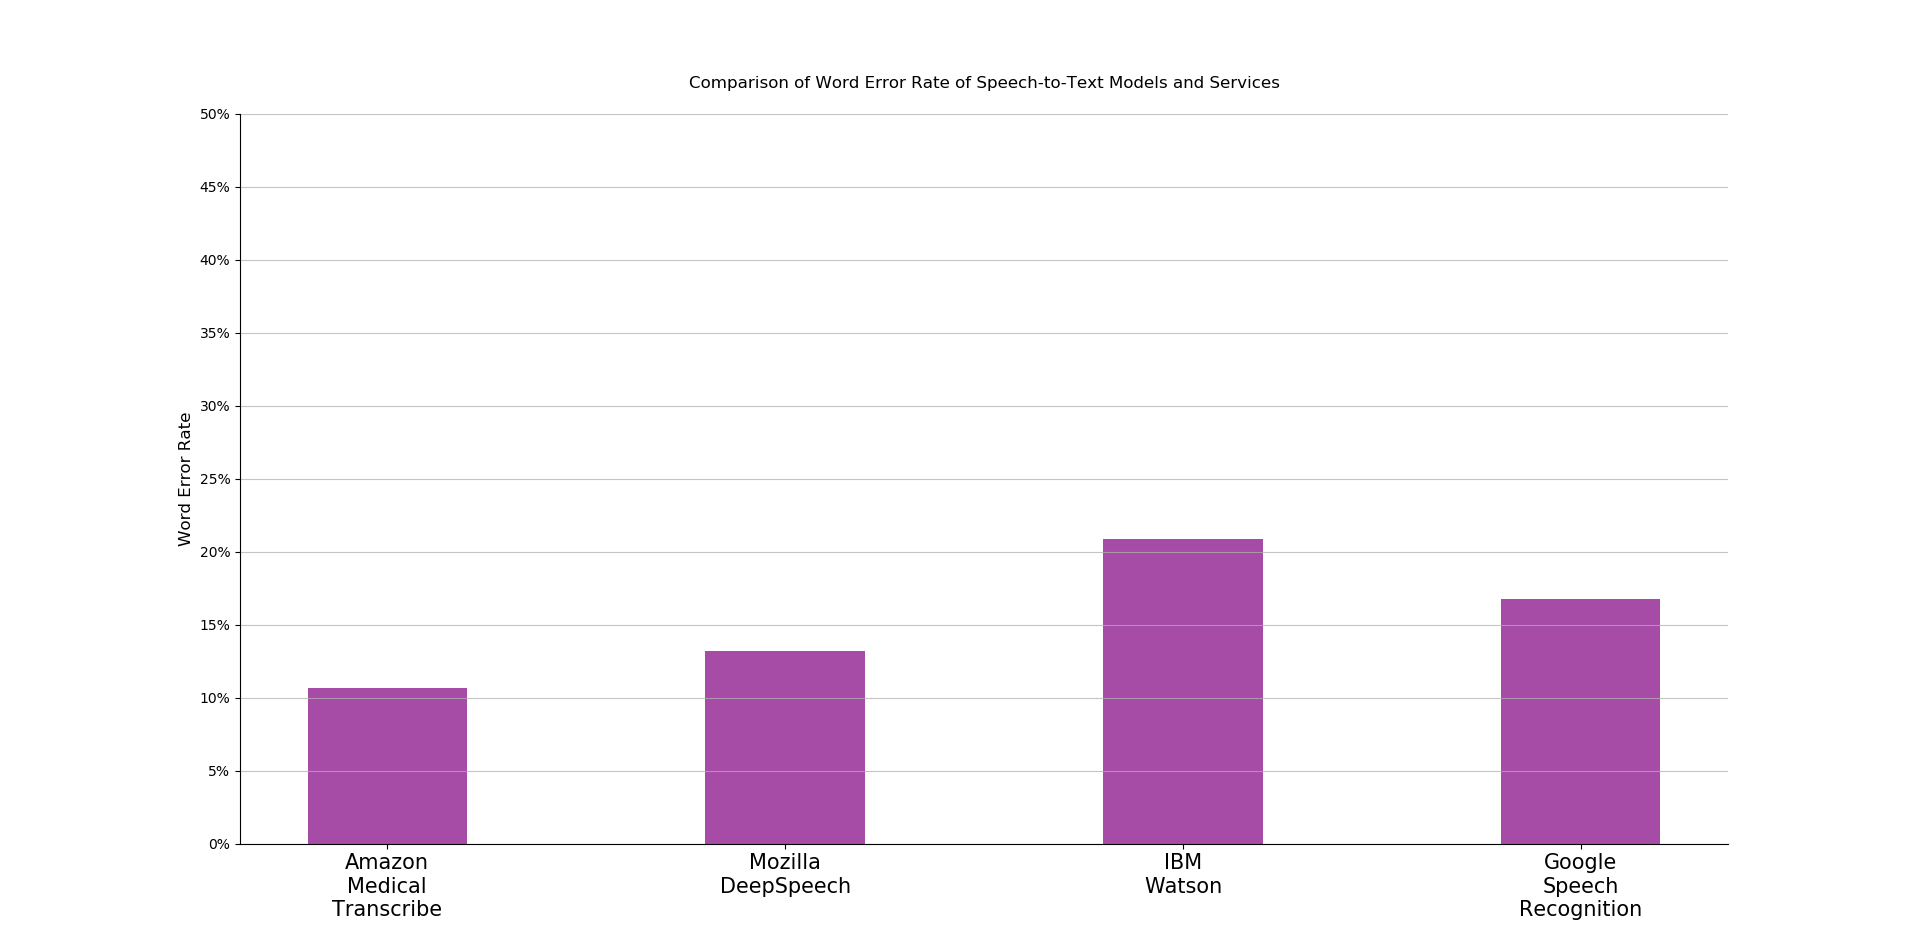
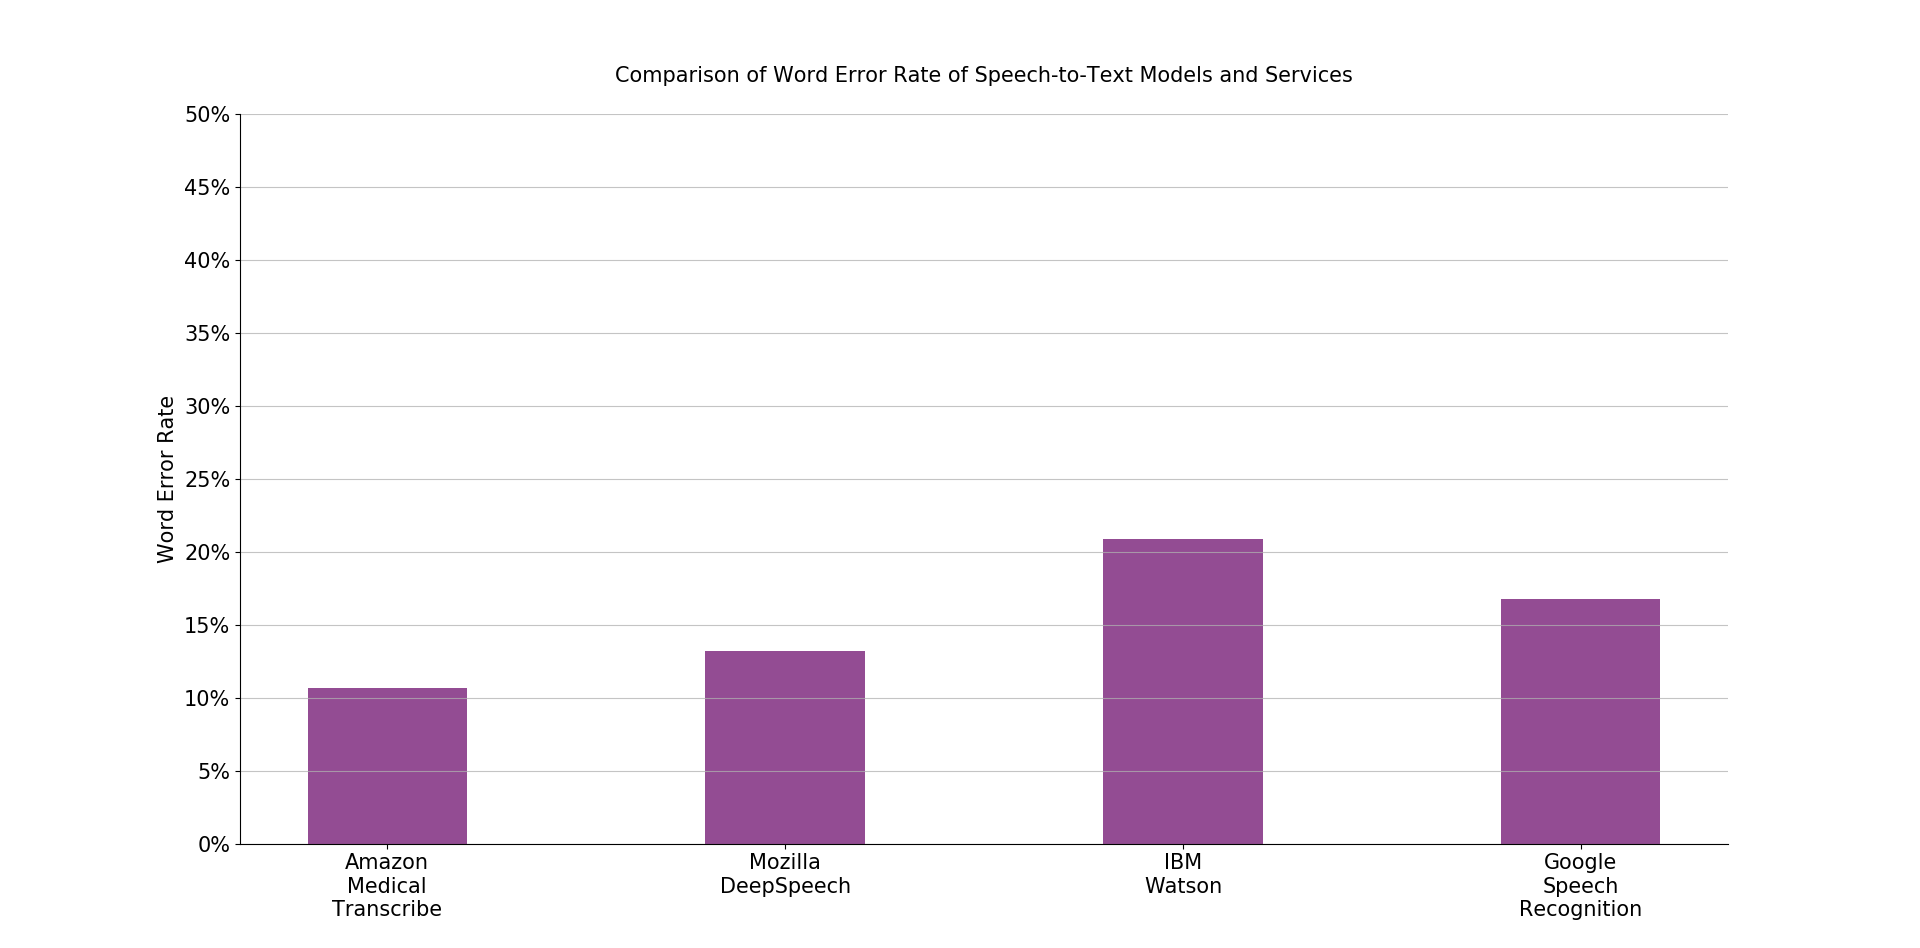
Updated

diff --git a/README.md b/README.md
@@ -60,7 +60,7 @@ Results based on the test performed on <b>Test-Clean Librispeech Data</b>
 Now, let us try out these models and cloud services and see where they stand out on the <b>Raw Kaggle dataset</b>.
 
 <strong> Results on Kaggle dataset: </strong>
-![](Graphs/comp.png)
+![](Graphs/kaggle.png)
 
 <ol>
 <li> Amazon Medical Transcribe (<b>WER = 30.09%</b>) </li>
@@ -104,7 +104,7 @@ Now, let us try out these models and cloud services and see where they stand out
 <h3> c: Preprocessing: </h3> 
 
 <ol>
-<li> Seperating out the Accent component from the signal. </li>
+<li> Seperating out the Accent component from the signal by dropping out features from MFCC. </li>
 <li> Noise removal. </li>
 <li> Normalise the pitch, volume and the speed of words spoken.</li>
 </ol>
@@ -147,7 +147,7 @@ An attempt was made to generate our own Medical Speech-to-Text Data which could 
 
 <h3><strong> Results from Amazon Polly generated TTS samples: <strong></h3>
 
-![](Graphs/polly.png)
+![](Graphs/awspolly.png)
 
 <ol>
 <li> Amazon Medical Transcribe (<b>WER = 9.25%</b>)</li>